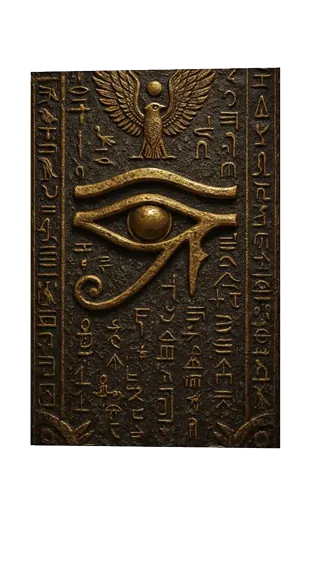
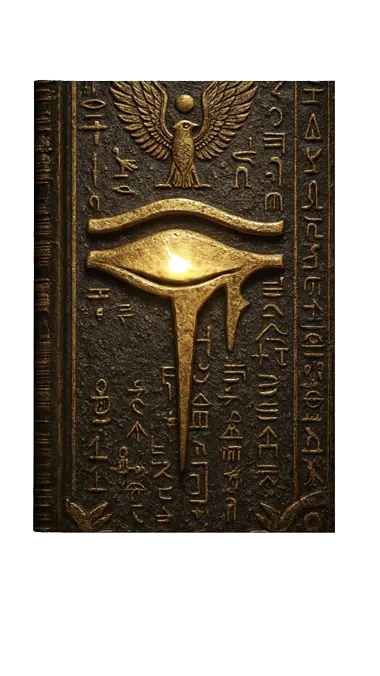
Eye-state book frames, no loader black hold, video poster

Changed region(s): [[0.0625, 0.1195, 0.9062, 0.8067]]

diff --git a/src/components/ui/Loader.tsx b/src/components/ui/Loader.tsx
@@ -5,12 +5,10 @@ import { motion, AnimatePresence } from "framer-motion";
 import SmokeCanvas from "@/components/ui/SmokeCanvas";
 
 const PLAY_RATE = 1.6;
-const START_DELAY_MS = 500; // hold smoke + black for 0.5s before video plays
 const CEILING_MS = 4500;
 
 export default function Loader() {
   const [show, setShow] = useState(true);
-  const [videoVisible, setVideoVisible] = useState(false);
   const fired = useRef(false);
   const videoRef = useRef<HTMLVideoElement>(null);
 
@@ -23,26 +21,22 @@ export default function Loader() {
     };
     const ceiling = setTimeout(finish, CEILING_MS);
 
-    // Hold for 500ms before starting the video
-    const startTimer = setTimeout(() => {
-      setVideoVisible(true);
-      const v = videoRef.current;
-      if (v) {
+    const v = videoRef.current;
+    if (v) {
+      v.playbackRate = PLAY_RATE;
+      const onEnded = () => finish();
+      const onPlay = () => {
         v.playbackRate = PLAY_RATE;
-        v.play().catch(() => {});
-        const onEnded = () => finish();
-        const onPlay = () => {
-          v.playbackRate = PLAY_RATE;
-        };
-        v.addEventListener("ended", onEnded, { once: true });
-        v.addEventListener("play", onPlay);
-      }
-    }, START_DELAY_MS);
-
-    return () => {
-      clearTimeout(ceiling);
-      clearTimeout(startTimer);
-    };
+      };
+      v.addEventListener("ended", onEnded, { once: true });
+      v.addEventListener("play", onPlay);
+      return () => {
+        clearTimeout(ceiling);
+        v.removeEventListener("ended", onEnded);
+        v.removeEventListener("play", onPlay);
+      };
+    }
+    return () => clearTimeout(ceiling);
   }, []);
 
   return (
@@ -71,28 +65,28 @@ export default function Loader() {
             }}
           />
 
-          <motion.div
-            initial={{ opacity: 0, scale: 0.94 }}
-            animate={{ opacity: videoVisible ? 1 : 0, scale: 1 }}
-            transition={{ duration: 0.5, ease: "easeOut" }}
+          {/* Video plays IMMEDIATELY from its first frame — no black hold */}
+          <div
             className="relative w-[88vw] max-w-[920px]"
             style={{ aspectRatio: "16 / 9" }}
           >
             <video
               ref={videoRef}
               src="/videos/opt1-clean.mp4"
+              autoPlay
               muted
               playsInline
               preload="auto"
+              poster="/images/loader-poster.jpg"
               className="absolute inset-0 h-full w-full object-contain"
               style={{ mixBlendMode: "lighten" }}
             />
-          </motion.div>
+          </div>
 
           <motion.p
             initial={{ opacity: 0, letterSpacing: "0.6em" }}
             animate={{ opacity: 1, letterSpacing: "0.45em" }}
-            transition={{ delay: 0.6, duration: 0.7 }}
+            transition={{ delay: 0.4, duration: 0.7 }}
             className="relative z-10 font-display text-truth-bone/85 text-[20px] md:text-[24px]"
           >
             TRUTH